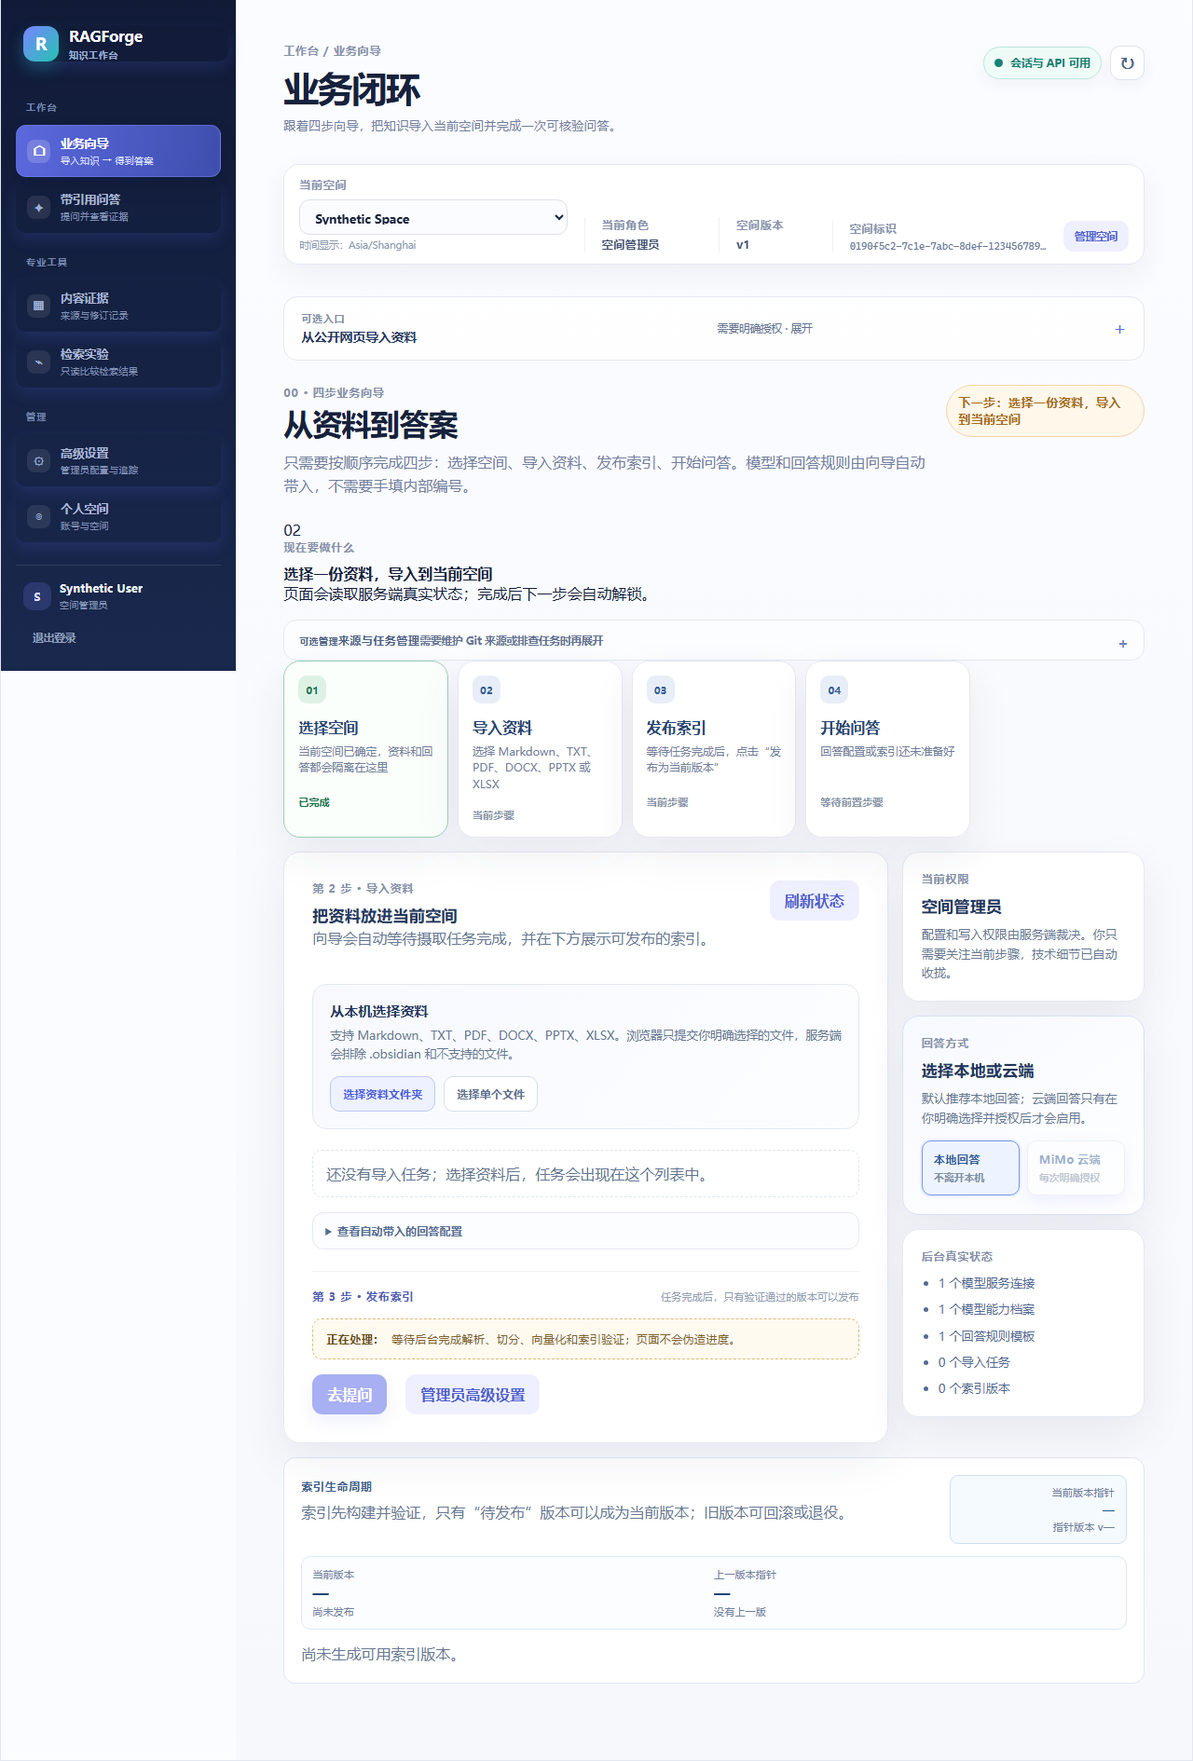
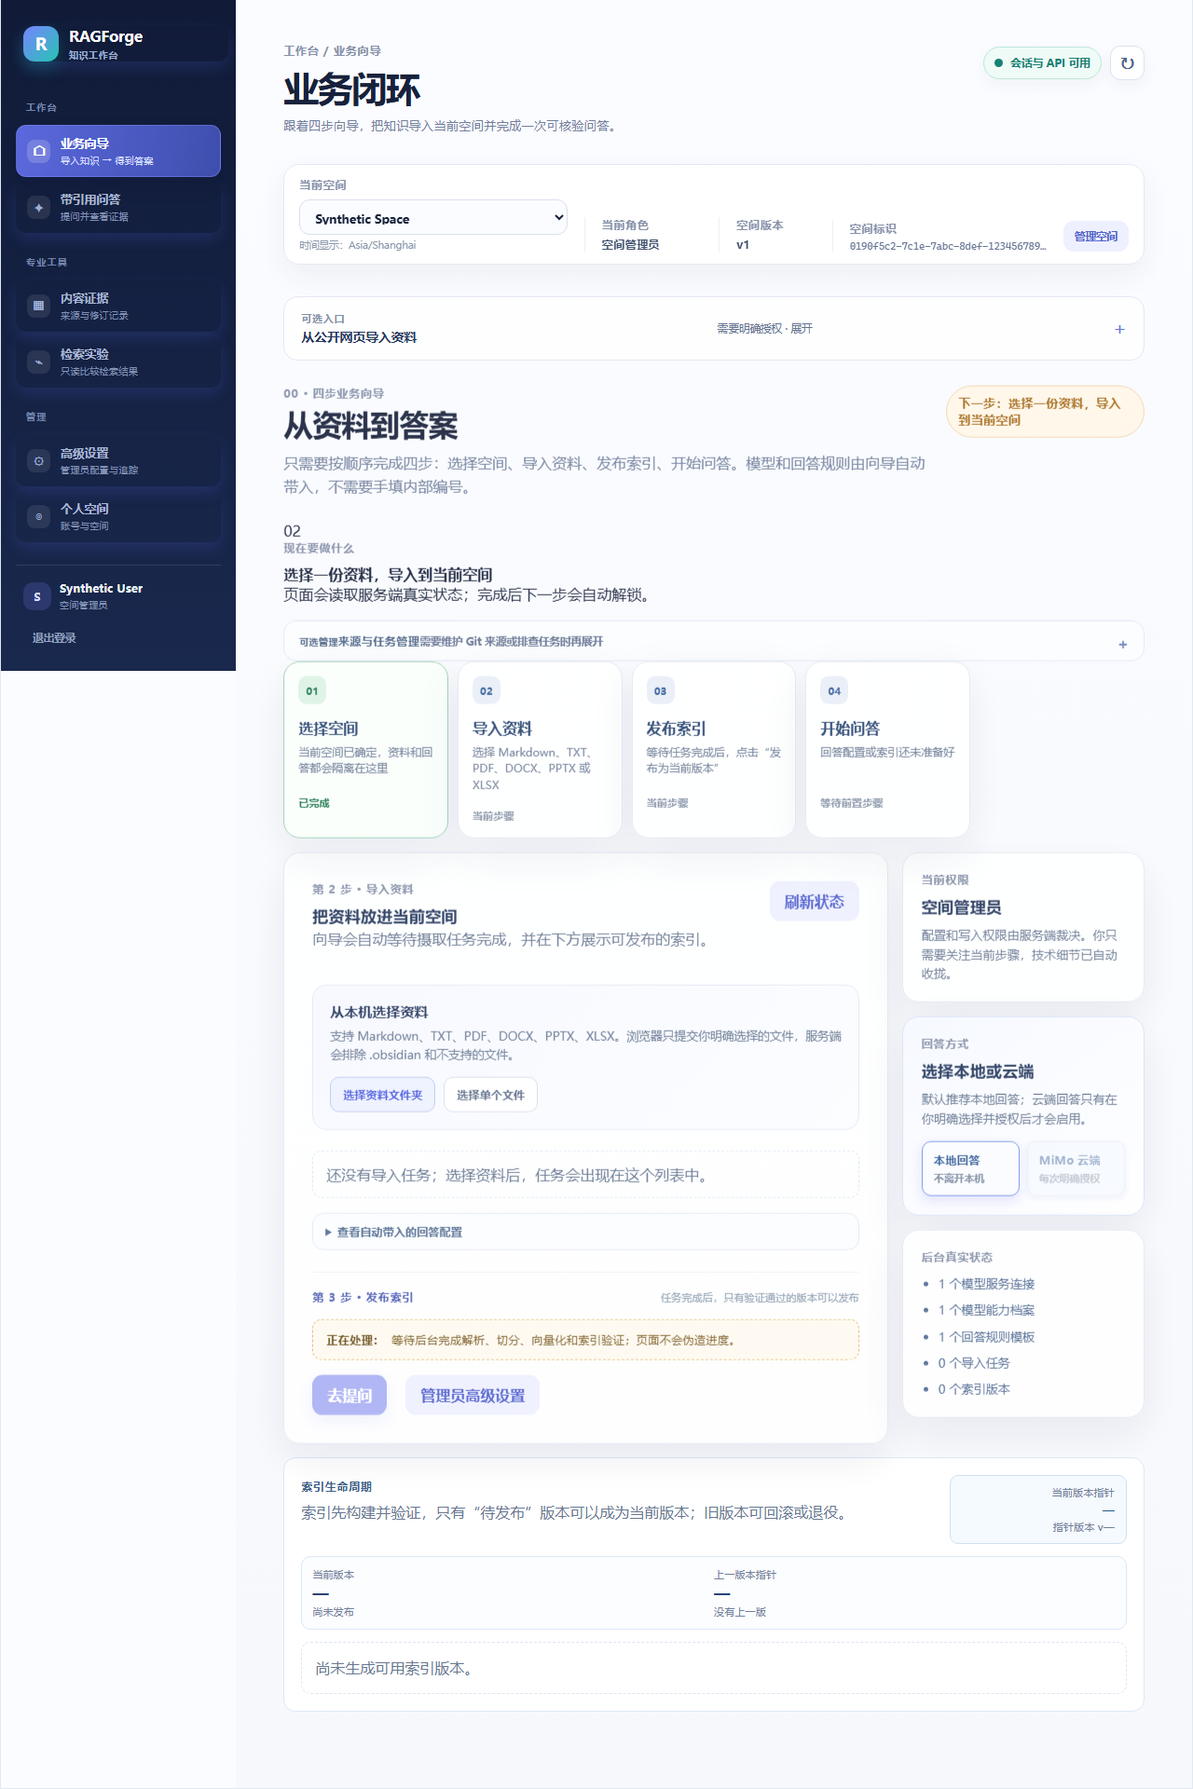
feat(frontend): 将索引生命周期改为数据列表
索引版本由卡片堆叠改为每页十条的数据列表，保留当前与上一版本指针、发布、回滚和退役动作。合成浏览器回归覆盖 16 个索引版本的分页边界。

diff --git a/frontend/ragforge-web/src/IndexLifecycleView.vue b/frontend/ragforge-web/src/IndexLifecycleView.vue
@@ -1,5 +1,5 @@
 <script setup lang="ts">
-import { computed } from "vue";
+import { computed, ref, watch } from "vue";
 import { formatDateTime } from "./format";
 import type { ActiveIndexView, IndexView } from "./api";
 
@@ -16,9 +16,13 @@ const emit = defineEmits<{
   retire: [index: IndexView];
 }>();
 
+const pageSize = 10;
+const currentPage = ref(1);
 const current = computed(() => props.activeIndex?.pointer.activeIndexVersionId ?? null);
 const previous = computed(() => props.activeIndex?.pointer.previousIndexVersionId ?? null);
 const previousIndex = computed(() => props.indexes.find((item) => item.indexVersionId === previous.value) ?? null);
+const pageCount = computed(() => Math.max(1, Math.ceil(props.indexes.length / pageSize)));
+const visibleIndexes = computed(() => props.indexes.slice((currentPage.value - 1) * pageSize, currentPage.value * pageSize));
 
 const stateLabels: Record<string, string> = {
   BUILDING: "构建中",
@@ -48,6 +52,12 @@ function isPrevious(index: IndexView): boolean {
 function canRetire(index: IndexView): boolean {
   return props.canManage && index.state === "ACTIVE" && !isCurrent(index);
 }
+
+function setPage(nextPage: number): void {
+  currentPage.value = Math.min(Math.max(nextPage, 1), pageCount.value);
+}
+
+watch(() => props.indexes.length, () => setPage(currentPage.value));
 </script>
 
 <template>
@@ -72,33 +82,30 @@ function canRetire(index: IndexView): boolean {
       </button>
     </div>
 
-    <div v-if="indexes.length" class="index-lifecycle-list">
-      <article v-for="item in indexes" :key="item.indexVersionId" class="lifecycle-row" :class="{ current: isCurrent(item), previous: isPrevious(item) }">
-        <div class="lifecycle-main">
-          <div class="lifecycle-title"><strong>v{{ item.versionNo }}</strong><span class="state-pill" :class="item.state.toLowerCase()">{{ stateLabel(item.state) }}</span><span v-if="isCurrent(item)" class="pointer-pill">当前版本</span><span v-if="isPrevious(item)" class="pointer-pill previous-pill">上一版本</span></div>
-          <small class="lifecycle-id">{{ item.indexVersionId }}</small>
-          <div class="evidence-grid">
-            <span>构建依据：{{ item.documentRevisionCount }} 个修订 · {{ item.childChunkCount }} 个子分块</span>
-            <span>验证依据：{{ item.validationVectorDimension ?? "—" }} 维 · 抽样检索 {{ validationLabel(item.sampleRetrievalPassed) }} · 空间过滤 {{ validationLabel(item.spaceFilterPassed) }}</span>
-            <span>配置：{{ item.embeddingProfileVersion }} · {{ item.chunkingStrategyVersion }}</span>
-          </div>
-          <small v-if="item.activatedAt" class="muted">激活于 {{ formatDateTime(item.activatedAt) }}</small>
-        </div>
-        <div class="lifecycle-actions">
-          <button v-if="item.state === 'READY'" type="button" class="quiet-button" :disabled="!canManage || busyIndexId === item.indexVersionId" @click="emit('publish', item)">
-            {{ busyIndexId === item.indexVersionId ? "发布中…" : "发布为当前版本" }}
-          </button>
-          <button v-if="canRetire(item)" type="button" class="quiet-button danger-button" :disabled="busyIndexId === item.indexVersionId" @click="emit('retire', item)">
-            {{ busyIndexId === item.indexVersionId ? "退役中…" : "退役此版本" }}
-          </button>
-        </div>
-      </article>
+    <div v-if="indexes.length" class="lifecycle-data-list">
+      <div class="data-list-heading"><div><span class="card-label">索引版本数据列表</span><p class="muted">每页展示 10 条，按版本号查看构建、验证和生命周期操作。</p></div><span class="data-list-count">共 {{ indexes.length }} 条</span></div>
+      <div class="lifecycle-table-wrap">
+        <table class="lifecycle-table" aria-label="索引生命周期列表">
+          <thead><tr><th scope="col">版本</th><th scope="col">状态</th><th scope="col">构建依据</th><th scope="col">验证依据</th><th scope="col">配置</th><th scope="col">操作</th></tr></thead>
+          <tbody>
+            <tr v-for="item in visibleIndexes" :key="item.indexVersionId" class="lifecycle-row" :class="{ current: isCurrent(item), previous: isPrevious(item) }">
+              <td class="lifecycle-version"><div><strong>v{{ item.versionNo }}</strong><span v-if="isCurrent(item)" class="pointer-pill">当前版本</span><span v-if="isPrevious(item)" class="pointer-pill previous-pill">上一版本</span></div><small>{{ item.indexVersionId }}</small></td>
+              <td><span class="state-pill" :class="item.state.toLowerCase()">{{ stateLabel(item.state) }}</span></td>
+              <td>{{ item.documentRevisionCount ?? "—" }} 个修订 · {{ item.childChunkCount ?? "—" }} 个子分块</td>
+              <td>{{ item.validationVectorDimension ?? "—" }} 维 · 抽样检索 {{ validationLabel(item.sampleRetrievalPassed) }} · 空间过滤 {{ validationLabel(item.spaceFilterPassed) }}</td>
+              <td><span>{{ item.embeddingProfileVersion || "—" }}</span><small>{{ item.chunkingStrategyVersion || "—" }}</small></td>
+              <td><div class="lifecycle-actions"><button v-if="item.state === 'READY'" type="button" class="quiet-button" :disabled="!canManage || busyIndexId === item.indexVersionId" @click="emit('publish', item)">{{ busyIndexId === item.indexVersionId ? "发布中…" : "发布为当前版本" }}</button><button v-if="canRetire(item)" type="button" class="quiet-button danger-button" :disabled="busyIndexId === item.indexVersionId" @click="emit('retire', item)">{{ busyIndexId === item.indexVersionId ? "退役中…" : "退役此版本" }}</button><span v-if="item.state !== 'READY' && !canRetire(item)" class="muted">无操作</span></div></td>
+            </tr>
+          </tbody>
+        </table>
+      </div>
+      <div class="pagination-bar" data-pagination="index-lifecycle"><span>第 {{ currentPage }} / {{ pageCount }} 页 · 共 {{ indexes.length }} 条</span><div><button type="button" class="quiet-button" :disabled="currentPage <= 1" aria-label="上一页" @click="setPage(currentPage - 1)">上一页</button><button type="button" class="quiet-button" :disabled="currentPage >= pageCount" aria-label="下一页" @click="setPage(currentPage + 1)">下一页</button></div></div>
     </div>
-    <p v-else class="muted">尚未生成可用索引版本。</p>
+    <p v-else class="muted empty-index-list">尚未生成可用索引版本。</p>
   </div>
 </template>
 
 <style scoped>
-.index-lifecycle { display: grid; gap: 13px; width: 100%; margin-top: 15px; padding: 18px; border: 1px solid #dce8f6; border-radius: 13px; background: #fff; }.index-lifecycle-heading { display: flex; align-items: start; justify-content: space-between; gap: 18px; }.index-lifecycle-heading label { color: #405f8b; font-size: .74rem; font-weight: 900; letter-spacing: .08em; text-transform: uppercase; }.index-lifecycle-heading .muted { margin: 6px 0 0; }.pointer-summary { min-width: 190px; padding: 10px 12px; border: 1px solid #cfe0f1; border-radius: 9px; background: #f5faff; text-align: right; }.pointer-summary span, .pointer-summary small, .pointer-grid span, .pointer-grid small { display: block; color: #70819b; font-size: .7rem; }.pointer-summary strong { display: block; margin: 3px 0; color: #225887; font-size: .76rem; overflow-wrap: anywhere; }.pointer-grid { display: grid; grid-template-columns: 1fr 1fr auto; align-items: center; gap: 10px; padding: 11px; border: 1px solid #dce8f6; border-radius: 10px; background: #fbfdff; }.pointer-grid strong { display: block; margin: 2px 0; color: #284572; }.pointer-grid small { overflow-wrap: anywhere; }.index-lifecycle-list { display: grid; gap: 8px; }.lifecycle-row { display: flex; align-items: start; justify-content: space-between; gap: 14px; padding: 12px; border: 1px solid #e1e8f2; border-radius: 10px; background: #fff; }.lifecycle-row.current { border-color: #9ccfb2; background: #fbfffc; }.lifecycle-row.previous { border-color: #bed2ec; }.lifecycle-main { min-width: 0; }.lifecycle-title { display: flex; align-items: center; flex-wrap: wrap; gap: 7px; color: #284572; }.state-pill, .pointer-pill { padding: 3px 7px; border-radius: 999px; font-size: .68rem; font-weight: 800; }.state-pill { background: #edf2f8; color: #5b6e88; }.state-pill.ready { background: #fff3d8; color: #8b621e; }.state-pill.active { background: #ddf2e5; color: #1b754d; }.state-pill.retired { background: #f0f1f3; color: #68717d; }.state-pill.failed { background: #ffe5e5; color: #a43e3e; }.pointer-pill { background: #e5f1ff; color: #2f659c; }.previous-pill { background: #f1ebff; color: #71509a; }.lifecycle-id { display: block; margin-top: 5px; color: #71809a; overflow-wrap: anywhere; }.evidence-grid { display: grid; gap: 3px; margin-top: 8px; color: #526b92; font-size: .73rem; line-height: 1.4; }.lifecycle-main > .muted { display: block; margin-top: 6px; font-size: .7rem; }.lifecycle-actions { display: flex; flex: 0 0 auto; flex-wrap: wrap; justify-content: end; gap: 7px; }.danger-button { color: #9a4d4d; }.index-lifecycle > .muted { margin: 0; }
-@media (max-width: 700px) { .index-lifecycle-heading, .lifecycle-row { flex-direction: column; }.pointer-summary { width: 100%; text-align: left; }.pointer-grid { grid-template-columns: 1fr; }.lifecycle-actions { justify-content: start; } }
+.index-lifecycle { display: grid; gap: 13px; width: 100%; margin-top: 15px; padding: 18px; border: 1px solid #dce8f6; border-radius: 13px; background: #fff; }.index-lifecycle-heading { display: flex; align-items: start; justify-content: space-between; gap: 18px; }.index-lifecycle-heading label { color: #405f8b; font-size: .74rem; font-weight: 900; letter-spacing: .08em; text-transform: uppercase; }.index-lifecycle-heading .muted { margin: 6px 0 0; }.pointer-summary { min-width: 190px; padding: 10px 12px; border: 1px solid #cfe0f1; border-radius: 9px; background: #f5faff; text-align: right; }.pointer-summary span, .pointer-summary small, .pointer-grid span, .pointer-grid small { display: block; color: #70819b; font-size: .7rem; }.pointer-summary strong { display: block; margin: 3px 0; color: #225887; font-size: .76rem; overflow-wrap: anywhere; }.pointer-grid { display: grid; grid-template-columns: 1fr 1fr auto; align-items: center; gap: 10px; padding: 11px; border: 1px solid #dce8f6; border-radius: 10px; background: #fbfdff; }.pointer-grid strong { display: block; margin: 2px 0; color: #284572; }.pointer-grid small { overflow-wrap: anywhere; }.lifecycle-data-list { display: grid; gap: 10px; }.data-list-heading { display: flex; align-items: end; justify-content: space-between; gap: 12px; }.data-list-heading .muted { margin: 5px 0 0; font-size: .74rem; }.data-list-count { color: #52709e; font-size: .72rem; font-weight: 800; }.lifecycle-table-wrap { overflow-x: auto; border: 1px solid #e1e8f2; border-radius: 10px; }.lifecycle-table { width: 100%; min-width: 1020px; border-collapse: collapse; text-align: left; }.lifecycle-table th { padding: 9px 10px; background: #f1f6fd; color: #71809a; font-size: .68rem; font-weight: 800; }.lifecycle-table td { padding: 10px; border-top: 1px solid #edf1f6; color: #526b92; font-size: .72rem; line-height: 1.4; vertical-align: middle; }.lifecycle-table tbody tr:first-child td { border-top: 0; }.lifecycle-row.current td { background: #fbfffc; }.lifecycle-row.previous td { background: #fbfdff; }.lifecycle-version { min-width: 180px; }.lifecycle-version > div { display: flex; align-items: center; flex-wrap: wrap; gap: 6px; }.lifecycle-version strong { color: #284572; }.lifecycle-version small, .lifecycle-table td > small { display: block; margin-top: 4px; overflow-wrap: anywhere; color: #7a8aa2; font-size: .64rem; }.lifecycle-table td:nth-child(3), .lifecycle-table td:nth-child(4) { min-width: 205px; }.lifecycle-table td:nth-child(5) { min-width: 145px; }.state-pill, .pointer-pill { display: inline-flex; padding: 3px 7px; border-radius: 999px; font-size: .68rem; font-weight: 800; }.state-pill { background: #edf2f8; color: #5b6e88; }.state-pill.ready { background: #fff3d8; color: #8b621e; }.state-pill.active { background: #ddf2e5; color: #1b754d; }.state-pill.retired { background: #f0f1f3; color: #68717d; }.state-pill.failed { background: #ffe5e5; color: #a43e3e; }.pointer-pill { background: #e5f1ff; color: #2f659c; }.previous-pill { background: #f1ebff; color: #71509a; }.lifecycle-actions { display: flex; flex-wrap: wrap; gap: 7px; min-width: 130px; }.lifecycle-actions button { white-space: nowrap; }.pagination-bar { display: flex; align-items: center; justify-content: space-between; gap: 12px; color: #71809a; font-size: .72rem; }.pagination-bar > div { display: flex; gap: 7px; }.pagination-bar button { padding: 7px 10px; font-size: .7rem; }.empty-index-list { margin: 0; padding: 14px; border: 1px dashed #dce5f2; border-radius: 10px; }
+@media (max-width: 700px) { .index-lifecycle-heading { flex-direction: column; }.pointer-summary { width: 100%; text-align: left; }.pointer-grid { grid-template-columns: 1fr; }.lifecycle-table { min-width: 920px; }.lifecycle-actions { justify-content: start; } }
 </style>

diff --git a/frontend/ragforge-web/tests/e2e/web-journeys.spec.ts b/frontend/ragforge-web/tests/e2e/web-journeys.spec.ts
@@ -156,6 +156,22 @@ test("[P7C-15 列表分页] business flow and answer history show ten rows per p
   await expect(page.locator('[data-pagination="conversation-history"]')).toContainText("会话：第 2 / 3 页 · 共 23 条");
 });
 
+test("[P7C-16 索引列表分页] index lifecycle shows ten versions per page", async ({ page }) => {
+  const api = createSyntheticApi({ largeCollections: true });
+  await login(page, api);
+  await apiJson(page, `/api/v1/spaces/${SYNTHETIC.spaceId}/sources/uploads`, "POST", "synthetic-index-pagination");
+  await page.goto(`/?view=flow&spaceId=${SYNTHETIC.spaceId}`);
+
+  const indexTable = page.getByRole("table", { name: "索引生命周期列表" });
+  await expect(indexTable).toBeVisible();
+  await expect(indexTable.locator("tbody tr")).toHaveCount(10);
+  await expect(page.locator('[data-pagination="index-lifecycle"]')).toContainText("第 1 / 2 页 · 共 16 条");
+  await expect(indexTable.getByRole("button", { name: "发布为当前版本" })).toHaveCount(10);
+  await page.locator('[data-pagination="index-lifecycle"] button[aria-label="下一页"]').click();
+  await expect(indexTable.locator("tbody tr")).toHaveCount(6);
+  await expect(page.locator('[data-pagination="index-lifecycle"]')).toContainText("第 2 / 2 页 · 共 16 条");
+});
+
 test("[P7Q-06 URL + 分页] restores route state and traverses all large synthetic collections", async ({ page }) => {
   const api = createSyntheticApi({ largeCollections: true });
   await login(page, api);
@@ -183,7 +199,7 @@ test("[P7Q-06 URL + 分页] restores route state and traverses all large synthet
   }, SYNTHETIC.spaceId);
   expect(await collect(`/api/v1/spaces/${SYNTHETIC.spaceId}/sources`)).toBe(120);
   expect(await collect(`/api/v1/spaces/${SYNTHETIC.spaceId}/jobs`)).toBe(17);
-  expect(await collect(`/api/v1/spaces/${SYNTHETIC.spaceId}/indexes`)).toBe(6);
+  expect(await collect(`/api/v1/spaces/${SYNTHETIC.spaceId}/indexes`)).toBe(16);
   expect(api.requests.filter((request) => request.path.endsWith("/sources")).length).toBeGreaterThan(1);
 });
 

diff --git a/frontend/ragforge-web/tests/fixtures/synthetic-api.ts b/frontend/ragforge-web/tests/fixtures/synthetic-api.ts
@@ -97,7 +97,22 @@ export function createSyntheticApi(options: { role?: SyntheticRole; hasSpace?: b
   };
   const largeSources = Array.from({ length: 120 }, (_, index) => ({ source: { sourceId: `0190f5c2-7c1e-7abc-8def-${String(2000 + index).padStart(12, "0")}`, spaceId: SYNTHETIC.spaceId, displayName: `Synthetic source ${index + 1}`, connectorType: "GIT", rootRef: `synthetic/source/${index + 1}`, gitBranch: "main", versionNo: 1, sourceState: "ACTIVE" }, checkpoint: null }));
   const largeJobs = Array.from({ length: 17 }, (_, index) => ({ ...job("SUCCEEDED"), job: { ...job("SUCCEEDED").job, id: `0190f5c2-7c1e-7abc-8def-${String(3000 + index).padStart(12, "0")}` } }));
-  const largeIndexes = Array.from({ length: 6 }, (_, index) => ({ indexVersionId: `0190f5c2-7c1e-7abc-8def-${String(4000 + index).padStart(12, "0")}`, spaceId: SYNTHETIC.spaceId, versionNo: index + 1, state: index === 0 && published ? "ACTIVE" : "READY", childChunkCount: 1, validationVectorDimension: 3 }));
+  const largeIndexes = Array.from({ length: 16 }, (_, index) => ({
+    indexVersionId: index === 0 ? SYNTHETIC.indexId : `0190f5c2-7c1e-7abc-8def-${String(4000 + index).padStart(12, "0")}`,
+    spaceId: SYNTHETIC.spaceId,
+    versionNo: index + 1,
+    state: index === 0 && published ? "ACTIVE" : "READY",
+    candidateCollection: "synthetic-candidates",
+    embeddingProfileVersion: "embedding-v1",
+    chunkingStrategyVersion: "chunk-v1",
+    documentRevisionCount: index + 1,
+    childChunkCount: (index + 1) * 2,
+    validationVectorDimension: 3,
+    sampleRetrievalPassed: true,
+    spaceFilterPassed: true,
+    activatedAt: index === 0 && published ? now : null,
+    createdAt: now,
+  }));
   const fulfill = async (route: Route, status: number, body: object | string, contentType = "application/json"): Promise<void> => {
     await route.fulfill({ status, contentType, headers: { "X-Correlation-Id": SYNTHETIC.correlationId }, body: typeof body === "string" ? body : JSON.stringify(body) });
   };

diff --git a/docs/15-业务操作演示.md b/docs/15-业务操作演示.md
@@ -1,6 +1,6 @@
 # RAGForge 一整套业务操作演示
 
-版本：P7C-15 / v1
+版本：P7C-16 / v1
 适用入口：前端“业务向导”
 演示边界：截图来自浏览器端到端合成数据验收，不读取真实个人资料，不写入真实模型密钥，也不打开云端出境。
 
@@ -33,7 +33,7 @@
 
 ### 3. 发布已验证索引
 
-任务完成后，在同一页查看索引生命周期。只有“待发布”的候选版本可以点击“发布为当前版本”；发布后页面显示当前版本指针。失败或不属于当前空间的版本不能被绕过。
+任务完成后，在同一页查看索引生命周期数据列表，每页固定 10 条。只有“待发布”的候选版本可以点击“发布为当前版本”；列表上方保留当前/上一版本指针，当前版本可按既有权限回滚或退役。失败或不属于当前空间的版本不能被绕过。
 
 ![索引验证与发布](assets/business-demo/03-索引发布.png)
 
@@ -69,6 +69,7 @@
 - 浏览器端到端测试：`npm run test:e2e --prefix frontend/ragforge-web`
 - 历史恢复用例：`[J9 历史恢复]`，覆盖表格展示、初始运行恢复、点击会话加载最近回答和运行记录。
 - 列表分页用例：`[P7C-15 列表分页]`，覆盖导入任务 17 条数据、会话 23 条数据和运行记录 23 条数据的每页 10 条、首尾页与恢复。
+- 索引列表用例：`[P7C-16 索引列表分页]`，覆盖 16 个索引版本的每页 10 条、第二页 6 条以及“发布为当前版本”操作入口。
 - 数据边界：演示使用合成空间、合成文档和合成回答；跨空间访问、只读角色和归档读取均保留拒绝/只读验证。
 
-原始测试证据见 [`tests/evidence/P7C-15-list-pagination.v1.json`](../tests/evidence/P7C-15-list-pagination.v1.json)。
+原始测试证据见 [`tests/evidence/P7C-16-index-list-pagination.v1.json`](../tests/evidence/P7C-16-index-list-pagination.v1.json)。

diff --git a/frontend/ragforge-web/README.md b/frontend/ragforge-web/README.md
@@ -16,6 +16,7 @@
 - Chunk Studio：按当前 `spaceId` 读取 child projection，展示 provenance、parent-child、anchor、vector/index status 和 override 审计摘要；支持编辑外部已存储内容的 opaque replacement `contentRef` 与 SHA-256 `textHash`、创建 override 以及 `ACTIVE -> NEEDS_REVIEW -> ACTIVE/DISCARDED` 流转。
 - Retrieval Playground：提交 query、index version 与 profile A/B candidate，展示 dense、BM25、RRF、rerank、context、evidence 和 abstention 的结构化 trace。
 - 带引用问答：创建版本化 Run 与 Answer，消费 SSE，并展示由服务端 provenance 生成的 citation、失败和拒答状态。
+- 索引生命周期：以数据列表展示构建、验证、发布、回滚和退役版本，每页 10 条；当前版本与上一版本指针保留在列表上方。
 
 页面只渲染契约允许的引用、hash、位置和审计 metadata，不渲染正文、原文、embedding、vector、secret 或自由文本 citation。replacement 字段只指向外部已存储内容，正文不进入本客户端；contentRef 会拒绝空白、超长和敏感字段，textHash 必须为 64 位 SHA-256 十六进制值。A/B 实验不提供 active profile 操作。
 
